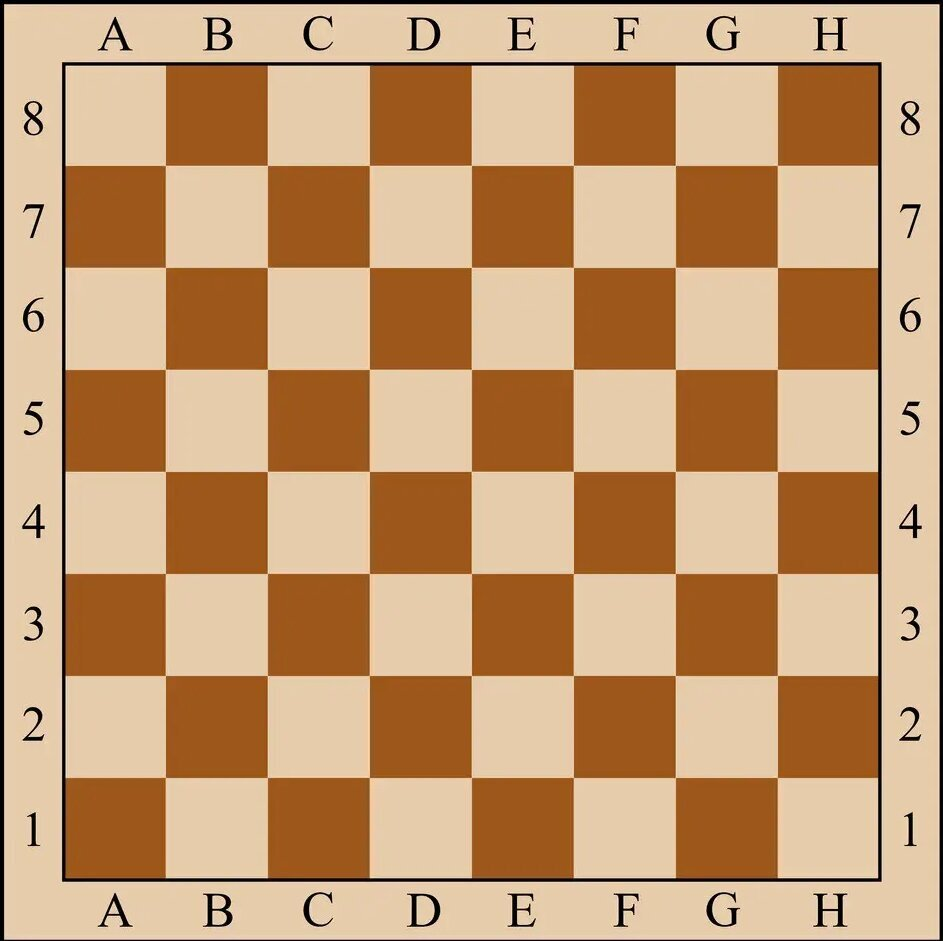
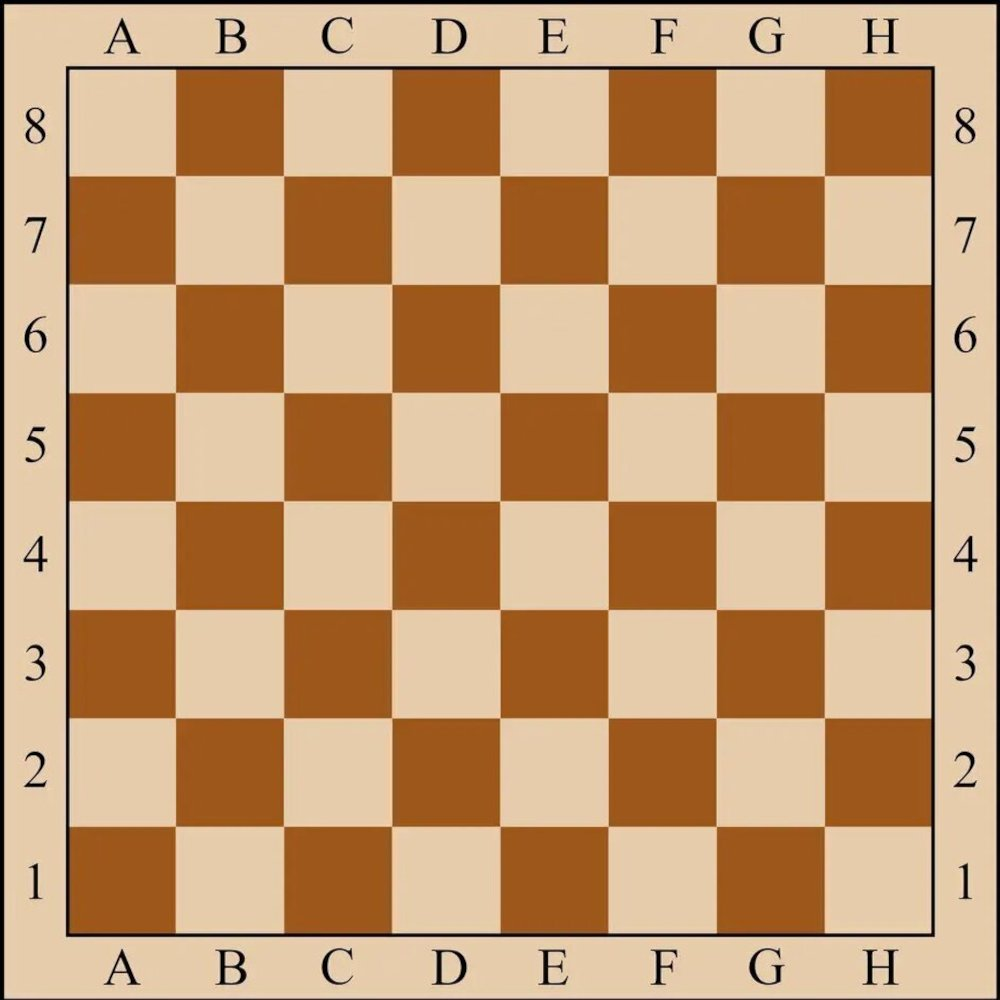
Dalsze tworzenie kodu cz. 3 - dodanie dźwięku, połączenie gui z wywołaniem gry właściwej, zalążek klasy do renderowania figur, przeskalowanie szachownic do jednej rozdzielczości 1000x1000

diff --git a/Chess/Resources/gui.py b/Chess/Resources/gui.py
@@ -6,27 +6,37 @@ związane z GUI
 
 import pygame
 import pygame_menu
+from typing import Optional
 
-# stałe
 import Chess.main
 
+# --- STAłE ---
+# stałe Menus
 WINDOW_WIDTH = 1024
 WINDOW_HEIGHT = 800
 MAIN_MENU_WIDTH = 400
 MAIN_MENU_HEIGHT = 600
-BOARD_WIDTH = 1024
-BOARD_HEIGHT = 720
-REFRESH_RATE = 60
 AUTHORS = 'Made by:\n'\
         'Jakub Iwaniec\n' \
         'Mikołaj Dettlaff\n' \
         'Miłosz Gostyński'
+# stałe GameEngine
+BOARD_WIDTH = 1000
+BOARD_HEIGHT = 1000
+BOARD_SQUARE_FIRST = (69, 69)
+BOARD_SQUARE_SIZE = (107, 107)
+BOARD_SQUARE_SPACING_PIXELS = 1
+REFRESH_RATE = 60
+
+# ---       ---
 
 
 class Menus:
     # tworzenie wszystkich obiektów wszystkich menu
     def __init__(self):
         Menus._assert_constants_test()
+        self._beatbox_gui = pygame_menu.Sound()
+        self._beatbox_gui.load_example_sounds()
 
         self.menu = pygame_menu.Menu(
             title="Chess Game", width=MAIN_MENU_WIDTH, height=MAIN_MENU_HEIGHT, theme=pygame_menu.themes.THEME_DEFAULT)
@@ -42,6 +52,7 @@ class Menus:
         Menus._add_properties_submenu_play(self)
         Menus._add_properties_submenu_help(self)
         Menus._add_properties_submenu_authors(self)
+        Menus._add_properties_sounds(self)
 
     # testy defensywne stałych
     @staticmethod
@@ -54,7 +65,7 @@ class Menus:
     @staticmethod
     def _add_properties_menu(self) -> None:
         self.menu.add.button(title="Play", action=self.submenu_play)
-        self.menu.add.button(title="New To Chess?", action=self.submenu_help)
+        self.menu.add.button(title="Guide to Chess", action=self.submenu_help)
         self.menu.add.button(title="Authors", action=self.submenu_authors)
         self.menu.add.button(title="Quit", action=pygame_menu.events.EXIT)
 
@@ -77,7 +88,7 @@ class Menus:
             selection_option_padding=(0, 5),
             selection_option_font_size=20
         )
-        self.submenu_play.add.button(title="Begin game", action=pygame_menu.events.NONE)
+        self.submenu_play.add.button(title="Begin game", action=GameEngine.run_game)
 
     @staticmethod
     def _add_properties_submenu_help(self) -> None:
@@ -89,16 +100,31 @@ class Menus:
     def _add_properties_submenu_authors(self) -> None:
         self.submenu_authors.add.label(AUTHORS, max_char=-1, font_size=20)
 
+    @staticmethod
+    def _add_properties_sounds(self) -> None:
+        self.menu.set_sound(self._beatbox_gui, recursive=True)
+        self.submenu_play.set_sound(self._beatbox_gui, recursive=True)
+        self.submenu_help.set_sound(self._beatbox_gui, recursive=True)
+        self.submenu_authors.set_sound(self._beatbox_gui, recursive=True)
+
 
 class GameEngine:
     def __init__(self):
-        self._window = None
-        self._board_surface = None
-        self._board_image = None # dodaj set_engine_board_image
-        self._skin_pack = None # tutaj czy moze w pieces.py ???
-        self._chessboard_state = None
-        pygame.mixer.init()
+        self._window: Optional['pygame.Surface'] = None
+        self._board_surface: Optional['pygame.Rect'] = None
+        self._board_subsurfaces: Optional['tuple[pygame.Rect]'] = None
+        self._board_image: Optional['str'] = None # dodaj set_engine_board_image
+        self._skin_pack: Optional['str'] = None # tutaj czy moze w pieces.py ???
+        self._chessboard_state: Optional['list'] = None
+
+        self.beatbox = SoundEngine()
         pygame.init()
+
+    class Square(pygame.sprite.Sprite):
+        def __init__(self):
+            super(pygame.sprite.Sprite, self).__init__()
+            self.surf = BOARD_SQUARE_SIZE
+            self.start_point = (0, 0)
 
     def set_engine_window(self, new_window: pygame.Surface):
         assert type(new_window) is pygame.Surface
@@ -146,6 +172,12 @@ class GameEngine:
                 if event.type == pygame.QUIT:
                     pygame.quit()
                     raise SystemExit
+                if event.type == pygame.KEYDOWN:
+                    if event.key is pygame.key.key_code('return'):
+                        print('Enter')
+                    if event.key is pygame.key.key_code('escape'):
+                        engine.beatbox.play_click()
+                        GameEngine.test_gui()
 
             pygame.display.flip()
 
@@ -169,8 +201,6 @@ class GameEngine:
                 if event.type == pygame.QUIT:
                     pygame.quit()
                     raise SystemExit
-                if event.type == pygame.NOEVENT:
-                    pass
             # ...
 
             menu_interface = Menus()
@@ -182,9 +212,14 @@ class GameEngine:
 class SoundEngine:
     def __init__(self):
         pygame.mixer.init()
-    # do dokończenia
+        self.click = pygame.mixer.Sound('Sounds/Klik.wav')
+        self.volume = 0.7
+    # do dokończenia ?
+
+    def play_click(self):
+        pygame.mixer.Sound.play(self.click)
+        print("Playing sound!")
 
 
 test = GameEngine()
-# test.test_gui()
-test.run_game()
+test.test_gui()
